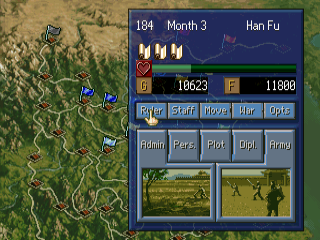
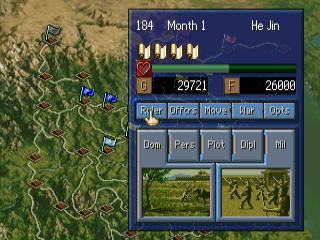
v0.9.2: stat plate lines, Spirit plate, centred labels, ministry names
- Officer card: Exp and the small stat plates (WAR INT POL CHA AGE TRP DRL MOR)
  no longer have a grey line through the letters (fixed plate background
  instead of a per-row guess); the untranslated Spirit plate is redrawn (SMAP).
- Menus: Edit / Register / OK labels centred like their neighbours (Opts menu,
  Register officer data, Ruler and City edit screens).
- Edit > City: kana reading line hidden (two more callers of the reading format).
- Ministries named the same everywhere: Dom / Pers / Plot / Dipl / Mil in the
  command tabs, the ministry menu and the Task column ("Sch", "Staff", "Diplo",
  "Admin", "Army" gone); tutorial and messages say Plot, not Schemes.
- Command tab Staff -> Offcrs (it is the officers' commands, not Personnel).
- vram.py accepts the newer DuckStation state version byte.

diff --git a/tools/gfx.py b/tools/gfx.py
@@ -566,9 +566,12 @@ def cell_stats():
     white = dict(kind='pixel', ink=1, shadow=(8, 1, 1), flat='rows', font=['pix', 'mid', 'small'])
     bare = dict(white, shadow=None, also=(8,))
     plain = dict(kind='pixel', ink=10, flat='rows', font=['pix', 'mid', 'small'])
-    row1 = [(0, 32, white), (32, 32, white), (64, 32, plain), (96, 40, dict(plain, ink=11)), (136, 24, plain),
+    # white plates: one background index (dense kanji fool the per-row guess -> grey/dark lines):
+    # red plates (勇名, 忠) 5, brown plates 6
+    red, brown = dict(white, flat=5), dict(white, flat=6)
+    row1 = [(0, 32, red), (32, 32, brown), (64, 32, plain), (96, 40, dict(plain, ink=11)), (136, 24, plain),
             (160, 56, plain), (216, 56, plain), (272, 32, plain), (304, 48, plain), (352, 32, plain)]
-    row2 = [(k * 16, 16, white) for k in range(9)] + [(160, 16, dict(plain, ink=8)), (176, 16, plain), (192, 16, plain),
+    row2 = [(k * 16, 16, red if k == 4 else brown) for k in range(9)] + [(160, 16, dict(plain, ink=8, flat=6)), (176, 16, plain), (192, 16, plain),
             (208, 16, bare), (224, 16, bare), (240, 16, bare), (288, 56, plain)]
     return [dict(o, img=CELL_STAT, box=(x + 1, r * 16 + 1, x + w - 2, r * 16 + 14))
             for r, row in enumerate((row1, row2)) for x, w, o in row]
@@ -622,6 +625,10 @@ ITEMS = {
     # ruler select 決定 button (48x24, normal + lit side by side, lit = 1 px lower; CLUT 640,496)
     'SMAP.ok': [[dict(kind='pixel', img=(512, 256, 0, 152, 96, 24, 8, (640, 496)), box=(x + 5, 5, x + 42, 17 + dy), ink=8,
                       shadow=(4, 1, 1), flat='rows', font=['pix', 'mid']) for x, dy in ((0, 0), (48, 1))]],
+    # officer card 気力 plate (32x16 at SMAP 160,112, under the two arrows; CLUT 640,496): frame 13/4,
+    # field 2, kanji 14 + shadow 12
+    'SMAP.spirit': [[dict(kind='pixel', img=(512, 256, 160, 112, 32, 16, 8, (640, 496)), box=(1, 1, 30, 14), ink=14,
+                          shadow=(12, 1, 1), flat=2, font=['pix', 'mid', 'small'])]],
     # battle status panel labels (HEX page 576,0, CLUT HEX +0xec00): 0 部隊 (32x16) 1 兵 2 米 (16x16)
     'HEX.panel': [dict(kind='pixel', img=(576, 0, u, v, w, 16, 8, ('HEX', 0xec00)), box=(1, 2, w - 2, 13), ink=15,
                        shadow=(9, 1, 1), also=(0,), flat='rows', font=['pix', 'mid', 'small']) for u, v, w in ((32, 32, 32), (80, 0, 16), (96, 0, 16))],

diff --git a/tools/layout.py b/tools/layout.py
@@ -53,6 +53,8 @@ PATCHES = [
     (0x800847d0, 0x24c62fcc, 0x24c62fd1),   # unit card reading (2): same
     (0x80085554, 0x24c62fcc, 0x24c62fd1),   # unit card reading: same
     (0x80086320, 0x24c62fcc, 0x24c62fd1),   # city panel reading (0x80086314, row 1): same
+    (0x8001b898, 0x24c623ac, 0x24c623b1),   # city reading (getter 0x8005de88, row 1): same
+    (0x80088d6c, 0x24c62fcc, 0x24c62fd1),   # city reading, Edit > City (getter 0x8005de88, row 1): same
     (0x800c78c4, 0x24070005, 0x24070006),   # officer lists, string columns (0x800c78bc): clear/clip rect 5 -> 6 cells
                                             # (the header plates are 6 cells: 'Xiangyang' 52 px was cut at 40 px)
     (0x8004f68c, 0x0c010316, 0x0c01027d),   # msg variable 0xC9 reading -> jal name getter 0x800409f4

diff --git a/tools/emu/vram.py b/tools/emu/vram.py
@@ -13,7 +13,7 @@ TAG = b'GPU-VRAM'
 
 def load(path):
     d = open(path, 'rb').read()
-    assert d[:5] == b'DUCCW'
+    assert d[:4] == b'DUCC'   # version byte varies (W, \\ ...)
     # header u32s from 0xa8: media path len/off, subimage, shot type, w, h, shot off? ...
     h = struct.unpack_from('<12I', d, 0xa8)
     off, size = h[11], h[9]

diff --git a/README.md b/README.md
@@ -13,7 +13,7 @@ editor, a duel and tournament mode and more. It was only released in Japan.
 > game terms follow the English translation of *Sangokushi DS 3* (a port of this game,
 > also a fan machine translation by the same author).
 
-> **This is a beta (v0.9.1).** All of the game's text is in English and the main screens
+> **This is a beta (v0.9.2).** All of the game's text is in English and the main screens
 > have been played through, but not every battle screen and event has been seen yet.
 > Expect some text that is squeezed, cut short or wrapped oddly.
 
@@ -98,8 +98,8 @@ done
 from your disc. `script/` and `build/` are never committed.
 The build is reproducible: the same disc and sources give a byte-identical patch.
 
-To make a release package, run `.venv/bin/python tools/package.py 0.9.1` after building:
-it writes `release/Sangokushi_V_PUK_English_v0.9.1.zip` with the versioned xdelta patch,
+To make a release package, run `.venv/bin/python tools/package.py 0.9.2` after building:
+it writes `release/Sangokushi_V_PUK_English_v0.9.2.zip` with the versioned xdelta patch,
 the `.cue` and a plain-text README.txt. No disc data is ever packaged.
 
 ## Repository layout
